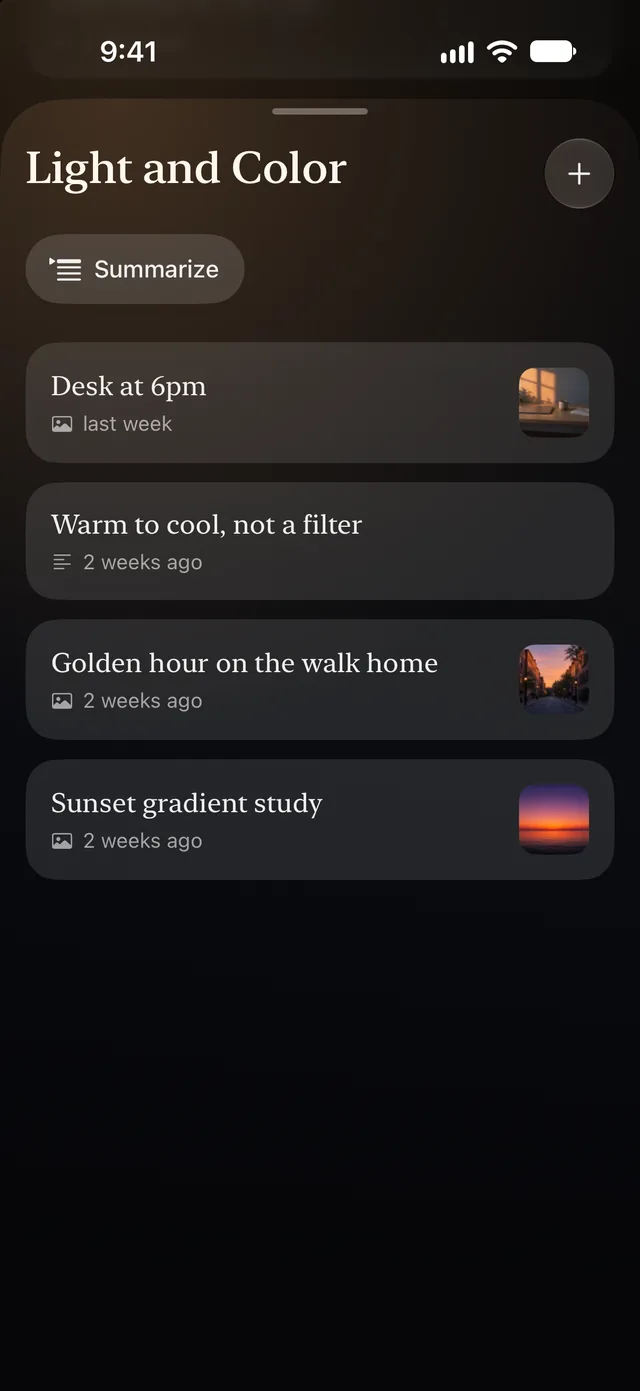
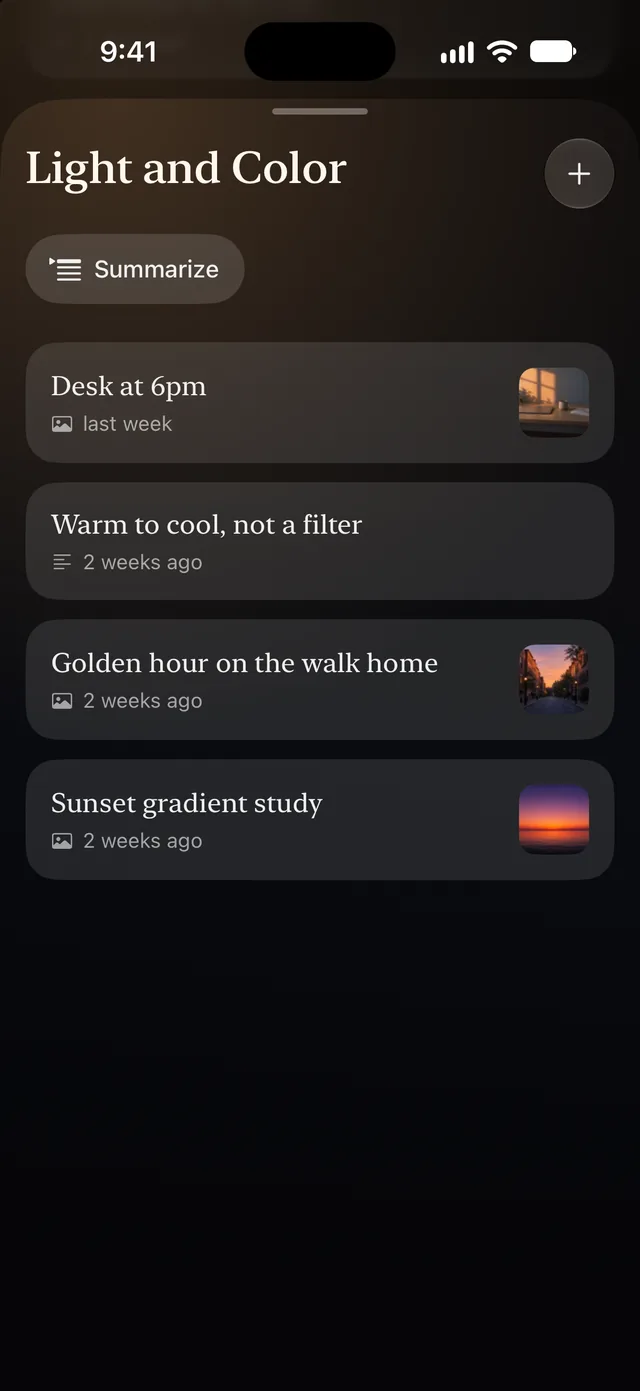
Site screens: put back the Dynamic Island simctl leaves out, measured from the simulator's own render

Changed region(s): [[0.375, 0.0, 0.625, 0.0618]]

diff --git a/website/README.md b/website/README.md
@@ -94,6 +94,10 @@ fact the water shows is also written on the page, and Reduce Motion (or
   launch (run `brctl download design/screenshot-seed` first). Open the Library once before
   capturing. Status bar 9:41, full battery, dark appearance; `simctl io … screenshot` (1206x2622),
   resized to 640 px, WebP q82. The iPhone 18 Pro and 17 Pro share one screen, so the frame fits.
+  `simctl` screenshots leave out the Dynamic Island (the simulator draws it only in its window, and
+  the profile's `sensor_bar_class_04.pdf` is empty), so each screen gets it composited back: a black
+  stadium at x 460.75 to 745.25, y 41.75 to 152.25 in the 1206x2622 capture, measured from the
+  simulator window's own render of the same frame (mean alpha error 0.004).
   - `tide.webp`: Tide at launch (`OCEAN_START_TAB=tide`), resurfacing "Golden hour on the walk
     home" (relaunch until Vision OCR reads it); clear `resurfacing.restedID` and
     `resurfacing.restedDay` first so Let it rest shows.
